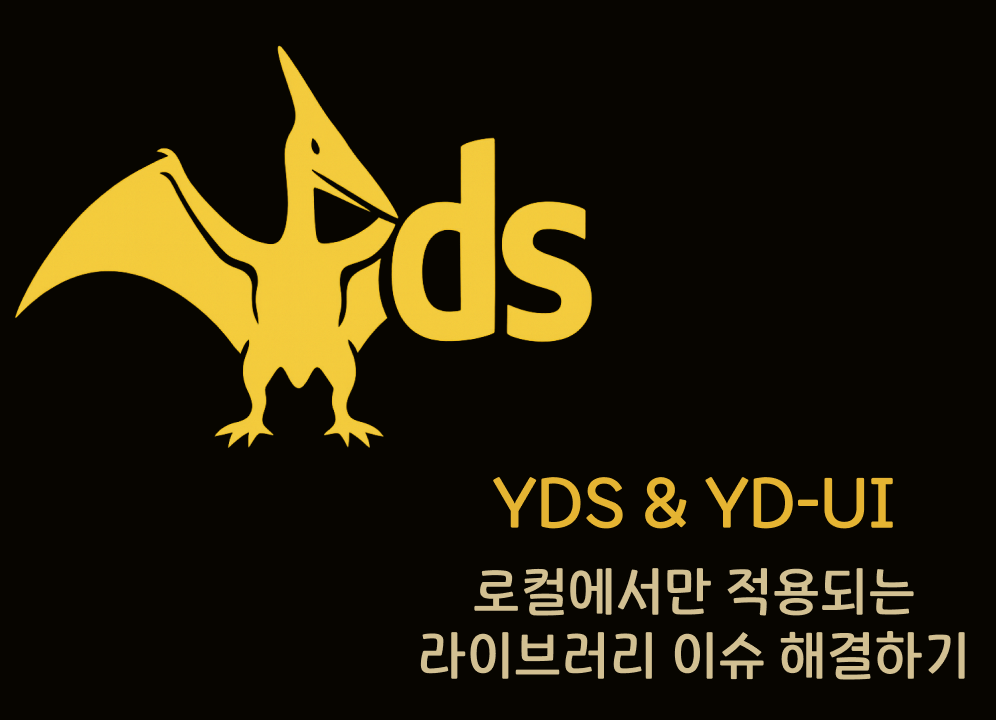
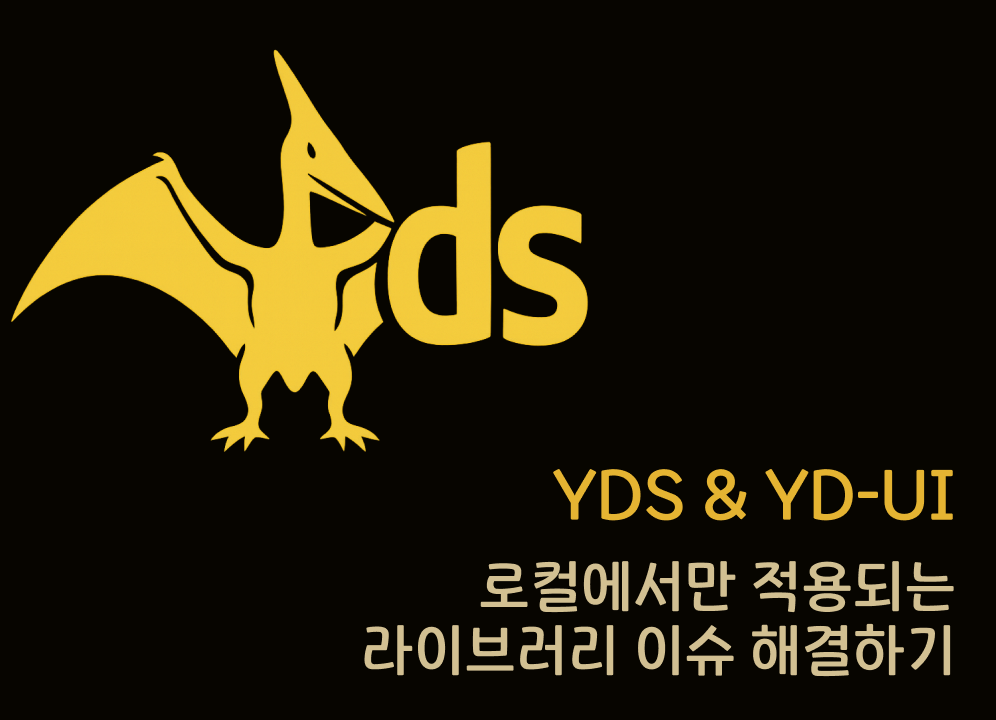
Posting/0904 (#57)
* posting: 리트코드 6주차 스택풀이

* posting: 리트코드 dale스터디 썸네일 교체

* posting: 6주차풀이

* posting: ui라이브러리 병렬적으로 개발하기

* posting: 썸네일교체

* refactor: p태그 행간구분을 위해 margin제거

diff --git a/src/app/shared/_components/post/styled-markdown.tsx b/src/app/shared/_components/post/styled-markdown.tsx
@@ -31,7 +31,7 @@ export const P: React.FC<{ children: React.ReactNode }> = ({
   ...rest
 }) => {
   return (
-    <p className="my-2 break-words text-lg" {...rest}>
+    <p className="break-words text-lg" {...rest}>
       {children}
     </p>
   );

diff --git a/_posts/DesignSystem/yds-2.md b/_posts/DesignSystem/yds-2.md
@@ -1,0 +1,115 @@
+---
+title: "배포 없이 프로젝트와 라이브러리 병렬적으로 개발하기"
+excerpt: "라이브러리랑 프레임워크를 함께 개발하는 방법"
+coverImage: "/assets/blog/posts/DesignSystem/yds-2/cover.png"
+date: "2025-09-04T18:37:00"
+ogImage:
+  url: "/assets/blog/posts/DesignSystem/yds-2/cover.png"
+---
+
+> 이 글은 pnpm link를 통해, 프로젝트와 UI 라이브러리를 병렬로 개발·적용하는 과정을 간단히 정리한 글입니다.
+
+## 문제 상황: 테스트를 위해 매번 배포했던 라이브러리
+
+&nbsp;
+
+[저번 글](https://youngduck-devlog.vercel.app/blog/posts/yds-1)에서 라이브러리와 사이드 프로젝트간의 문제를 해결하기위해,
+
+라이브러리를 수정하고, 배포한 후에 프로젝트에서 라이브러리 업데이트를 통해 테스트를 진행했었습니다.
+
+그러다 보니 YD-UI 라이브러리의 버전이 쉴 새 없이 올라가는 상황이 반복됐습니다.
+
+&nbsp;
+
+실제 테스트서버 같은 개념이 라이브러리 개발할때도 있지 않을까 싶어서
+서칭을 해보았고 link 기능을 찾을 수 있었습니다.
+
+&nbsp;
+npm,yarn,pnpm,burn 가릴것 없이 패키지 관리 사이트에서 기본적으로 제공해주는 기능인 것 같습니다.
+
+## pnpm link의 작동 원리
+
+작동원리와 사용방법은 굉장히 간단합니다.
+
+&nbsp;
+라이브러리의 symlink(심볼릭 링크)를 만들어고 연결을 통해 package.json에 적혀있는 node_modules/@youngduck/yd-ui 경로가 로컬 PC C드라이브의 개발 중인 yd-ui 라이브러리 소스코드를 바라보게 됩니다. 즉, 프로젝트에서 import하는 라이브러리가 로컬상에 설치된 경로를 참조하게 바꾸는 것이져.
+
+사용방법은 더 간단합니다.
+
+## 1단계: 기본 pnpm link 설정
+
+```bash
+# YD-UI 레포지토리에서
+pnpm link --global
+
+# BDKS-FE 레포지토리에서
+pnpm link --global @youngduck/yd-ui
+```
+
+## 문제 발생: Peer Dependencies 충돌
+
+저의 경우에는 bdks-fe는 react 18 버전을 사용하고 있었고 yd-ui는 react 19버전이었기때문에 peer dependency 오류가 발생했습니다.
+
+![peer dependency 불일치 경고](/assets/blog/posts/DesignSystem/yds-2/1.png)
+
+이때 [pnpm 공식문서](https://pnpm.io/ko/cli/link)를 찾아보니 대안으로 file: 프로토콜 연결 방식에 대한 내용이 있었습니다.
+
+![공식문서에서 peer depth관련해서 file프로토콜 권장하는내용](/assets/blog/posts/DesignSystem/yds-2/2.png)
+
+peer dependencies 이슈 발생시는 file 프로토콜 방식을 사용하라고 하는데, 저의 경우 앞으로 사용할 ui라이브러리를 만드는 상황이라, 다른 프로젝트간의 의존문제가 생길 확률이 적었습니다.
+또한 병렬적으로 만들고 있는 프로젝트는 react 19버전이기때문에 ui라이브러리의 react버전을 19로 업그레이드 하는 것이 맞겠다고 판단해 업데이트를 진행했습니다.
+
+## 2단계: YD-UI의 peerDependencies 업데이트
+
+```json
+// YD-UI/package.json
+// YD-UI의 peerDependencies를 React 19로 업데이트 해줬습니다.
+// 재설치 cli는 생략..
+{
+  "peerDependencies": {
+    "react": "^19.1.0",
+    "react-dom": "^19.1.0"
+  }
+}
+```
+
+## 3단계: 실제 테스트해보기
+
+```bash
+# YD-UI 디렉토리에서 watch모드 실행
+pnpm rollup -c -w
+
+# BDKS-FE 디렉토리에서 평소와 같이 실행
+pnpm run dev:dev
+```
+
+### 3-1: 테스트결과
+
+![라이브러리에서 새로 만든 INPUT 컴포넌트가 배포없이도 프로젝트에서 잘 import 되는 모습](/assets/blog/posts/DesignSystem/yds-2/3.png)
+이제 배포하지 않아도 라이브러리 개발과 프로젝트 개발을 병렬적으로 진행할 수 있게 되었습니다.
+
+## 4단계: 개발 완료 후 링크 해제작업 & 업데이트 처리
+
+```bash
+# ------- 완료 후 링크 정리 -------
+pnpm unlink --global @youngduck/yd-ui  # BDKS-FE에서
+pnpm unlink --global                   # YD-UI에서
+
+# ------- YD-UI 배포 -------
+npx publish
+
+
+# ------- 프로젝트에서 YD-UI 연결해주기 -------
+pnpm update @youngduck/yd-ui@latest  # 배포된 UI라이브러리 설치
+```
+
+## 배운 점
+
+1. **pnpm link**: 로컬 개발 환경에서 라이브러리와 프로젝트를 동시에 개발할 수 있는 효율적인 도구가 역시나 있었다.
+
+2. **의존성**: 버전 관리는 항상 중요하다.
+
+3. **file: 프로토콜의 활용**: peer dependencies 충돌 시 대안으로 사용할 수 있는 방법도 있다.
+
+&nbsp;
+이제 더 이상 라이브러리 버전이 무진장 치솟는 일은 없을 것 같습니다😅
